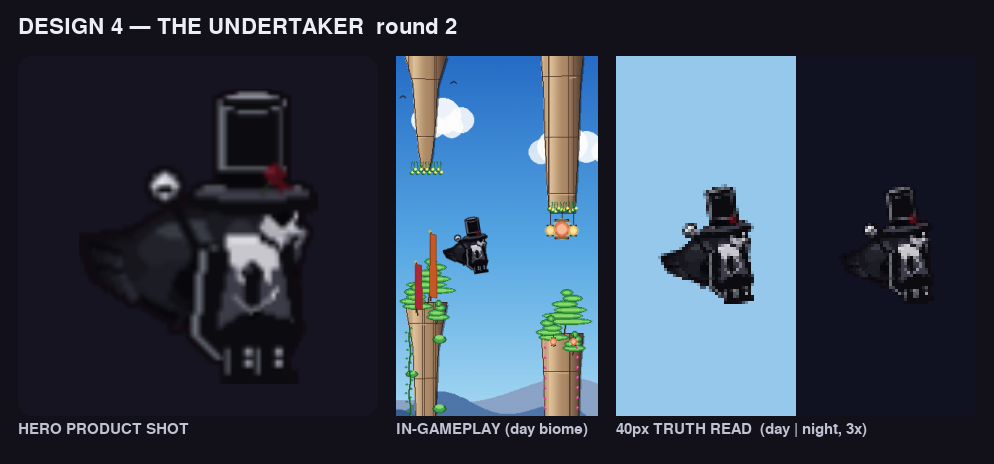
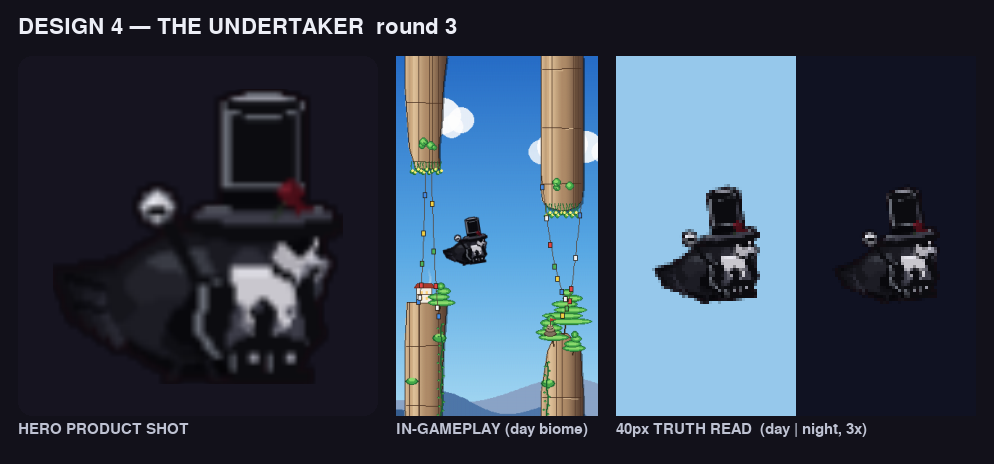
Shrink Undertaker tophat body/feet to base Pip footprint
The frock coat, boots and cane hung well below the normal Pip's feet,
making the bird read larger than its fixed 10px collision hitbox. Pull the
coat hem, boots and cane tip back inside the base parrot footprint (bottom
~HY+23..27) while leaving the tall top hat above the head untouched.

Claude-Session: https://claude.ai/code/session_01HafGQfRZVDiGkQqpJPr5Cm

diff --git a/tools/tophat_candidates/design_4.py b/tools/tophat_candidates/design_4.py
@@ -74,10 +74,10 @@ def _paint(surf, _a):
     # only the knob + tip overshoot the silhouette. The knob is the hero glint,
     # held clear of the body so it stays a pale glowing bead at 40px on night.
     knob = (HX - 23, CROWN_Y + 1)
-    foot = (HX - 4, HY + 30)
+    foot = (HX - 6, HY + 24)
     pygame.draw.line(surf, _UND_COAT, knob, foot, 3)          # dark-on-dark shaft
-    pygame.draw.line(surf, (20, 20, 26), (foot[0], foot[1]),  # tip overshoot
-                     (foot[0] + 2, foot[1] + 4), 3)
+    pygame.draw.line(surf, (20, 20, 26), (foot[0], foot[1]),  # tip kept in footprint
+                     (foot[0] + 1, foot[1] + 2), 3)
     # Silver skull knob — a clean glowing bead: bright core + cool halo so it
     # survives downscale and reads as the costume's hero glint on any sky.
     kx, ky = knob
@@ -88,43 +88,44 @@ def _paint(surf, _a):
     pygame.draw.circle(surf, _UND_COAT, (kx - 1, ky + 1), 1)  # eye sockets
     pygame.draw.circle(surf, _UND_COAT, (kx + 1, ky + 1), 1)
 
-    # ── BODY: long black frock coat over the charcoal body. A tall slim tower
-    # (the Undertaker silhouette) with a continuous 2px cool rim down the BACK
-    # edge so the coat separates from a night sky. Widened charcoal lapels split
-    # the front into a clear V band so the chest reads as a coat at 40px.
-    coat = [(HX - 14, HY + 8), (HX - 16, HY + 30), (HX - 10, HY + 36),
-            (HX + 8, HY + 36), (HX + 12, HY + 28), (HX + 10, HY + 8)]
+    # ── BODY: black frock coat hugging the charcoal body, its hem held INSIDE the
+    # base Pip footprint (bottom ~HY+23) so the figure reads at the bird's true
+    # size, not a tower hanging past its feet. A continuous 2px cool rim runs the
+    # BACK edge so the coat separates from a night sky; widened charcoal lapels
+    # split the front into a clear V band so the chest reads as a coat at 40px.
+    coat = [(HX - 14, HY + 8), (HX - 15, HY + 18), (HX - 11, HY + 23),
+            (HX + 8, HY + 23), (HX + 12, HY + 18), (HX + 10, HY + 8)]
     _poly(surf, _UND_COAT, coat)
     # Continuous 2px cool rim-light tracing the back (left) edge + shoulder —
     # the single device that keeps the all-dark silhouette legible on dark sky.
     pygame.draw.lines(surf, _UND_RIM, False,
-                      [(HX - 14, HY + 8), (HX - 16, HY + 30),
-                       (HX - 10, HY + 36)], 2)
+                      [(HX - 14, HY + 8), (HX - 15, HY + 18),
+                       (HX - 11, HY + 23)], 2)
     # Charcoal-grey lapels — a wide V opening from the collar down the chest, a
     # clear 3-4px value step off the black coat so the front reads at 40px.
-    _poly(surf, _UND_LAPEL, [(HX - 5, HY + 9), (HX - 9, HY + 28),
-                             (HX - 3, HY + 24), (HX - 1, HY + 9)])
-    _poly(surf, _UND_LAPEL, [(HX + 7, HY + 9), (HX + 10, HY + 26),
-                             (HX + 3, HY + 24), (HX + 2, HY + 9)])
+    _poly(surf, _UND_LAPEL, [(HX - 5, HY + 9), (HX - 8, HY + 21),
+                             (HX - 3, HY + 18), (HX - 1, HY + 9)])
+    _poly(surf, _UND_LAPEL, [(HX + 7, HY + 9), (HX + 9, HY + 20),
+                             (HX + 3, HY + 18), (HX + 2, HY + 9)])
     # The dark chest V between the lapels reads as the shirt-front gap.
     _poly(surf, _UND_COAT, [(HX - 1, HY + 11), (HX + 2, HY + 11),
-                            (HX + 1, HY + 26), (HX, HY + 26)])
+                            (HX + 1, HY + 20), (HX, HY + 20)])
     # Jet button + thin silver watch-chain swag across the lower chest.
-    pygame.draw.circle(surf, (4, 4, 8), (HX, HY + 24), 2)
-    pygame.draw.circle(surf, _UND_LAPEL, (HX - 1, HY + 23), 1)
+    pygame.draw.circle(surf, (4, 4, 8), (HX, HY + 19), 2)
+    pygame.draw.circle(surf, _UND_LAPEL, (HX - 1, HY + 18), 1)
     pygame.draw.lines(surf, _UND_PALE_D, False,
-                      [(HX - 5, HY + 20), (HX - 1, HY + 24), (HX + 5, HY + 20)], 1)
-    pygame.draw.line(surf, _UND_PALE_H, (HX + 5, HY + 20), (HX + 6, HY + 18), 1)
+                      [(HX - 5, HY + 16), (HX - 1, HY + 20), (HX + 5, HY + 16)], 1)
+    pygame.draw.line(surf, _UND_PALE_H, (HX + 5, HY + 16), (HX + 6, HY + 14), 1)
 
-    # ── FEET: black buttoned ankle boots with dull silver spat buttons. A value
-    # step over the coat hem, poked below the body to break the lower outline;
-    # a rim glint keeps them off a dark floor.
+    # ── FEET: black buttoned ankle boots with dull silver spat buttons, tucked at
+    # the coat hem so they sit on the base Pip's feet line (~HY+24..27) rather
+    # than hanging below it. A value step over the hem + a rim glint keeps them
+    # legible and off a dark floor without extending the silhouette downward.
     for fx in (HX - 7, HX + 1):
-        pygame.draw.rect(surf, _UND_COAT, (fx, HY + 33, 8, 8), border_radius=2)
-        pygame.draw.line(surf, _UND_RIM, (fx, HY + 34), (fx, HY + 40), 1)
-        pygame.draw.line(surf, _UND_COAT, (fx, HY + 41), (fx + 9, HY + 41), 2)  # sole
-        pygame.draw.circle(surf, _UND_PALE_D, (fx + 6, HY + 35), 1)  # spat button
-        pygame.draw.circle(surf, _UND_PALE_D, (fx + 6, HY + 38), 1)
+        pygame.draw.rect(surf, _UND_COAT, (fx, HY + 22, 7, 5), border_radius=2)
+        pygame.draw.line(surf, _UND_RIM, (fx, HY + 23), (fx, HY + 26), 1)
+        pygame.draw.line(surf, _UND_COAT, (fx, HY + 27), (fx + 8, HY + 27), 2)  # sole
+        pygame.draw.circle(surf, _UND_PALE_D, (fx + 5, HY + 24), 1)  # spat button
 
     # ── NECK: pale ash wing-collar + black silk cravat. The brightest mass on
     # the whole figure — a crisp pale wedge under the beak that anchors the

diff --git a/tools/tophat_candidates/render_design_4.py b/tools/tophat_candidates/render_design_4.py
@@ -13,7 +13,7 @@ from tools import ninja_render
 from tools.tophat_candidates.design_4 import build
 
 OUT = "docs/store_redesign/costume/tophat/design_4/round_1.png"
-TITLE = "DESIGN 4 — THE UNDERTAKER  round 2"
+TITLE = "DESIGN 4 — THE UNDERTAKER  round 3"
 
 
 def _label(surf, text, x, y, size=18, color=(236, 238, 246)):
